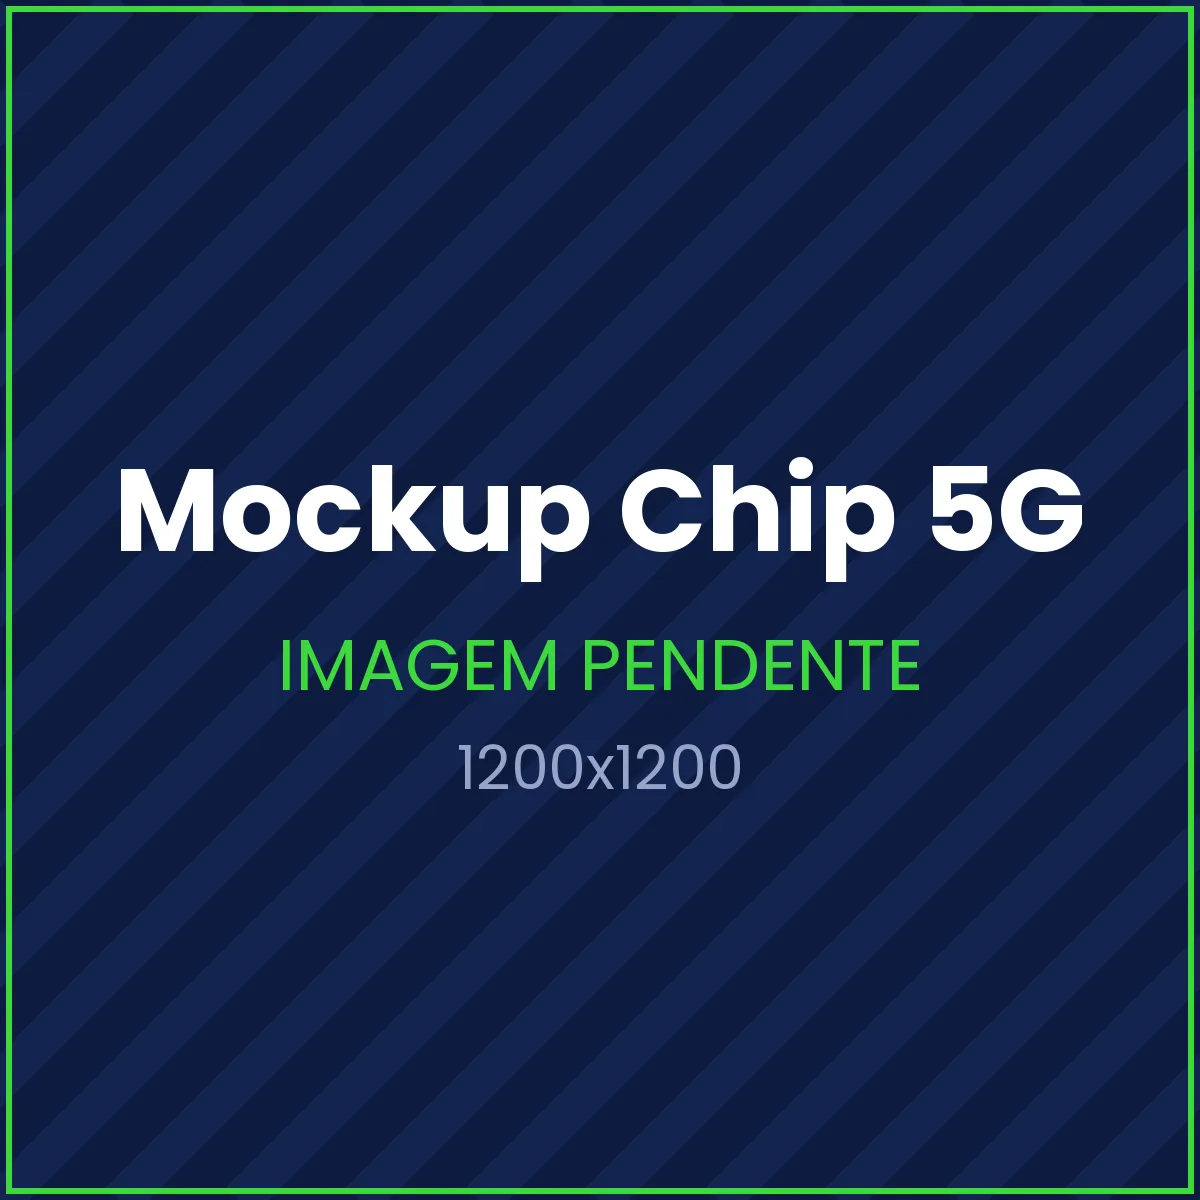
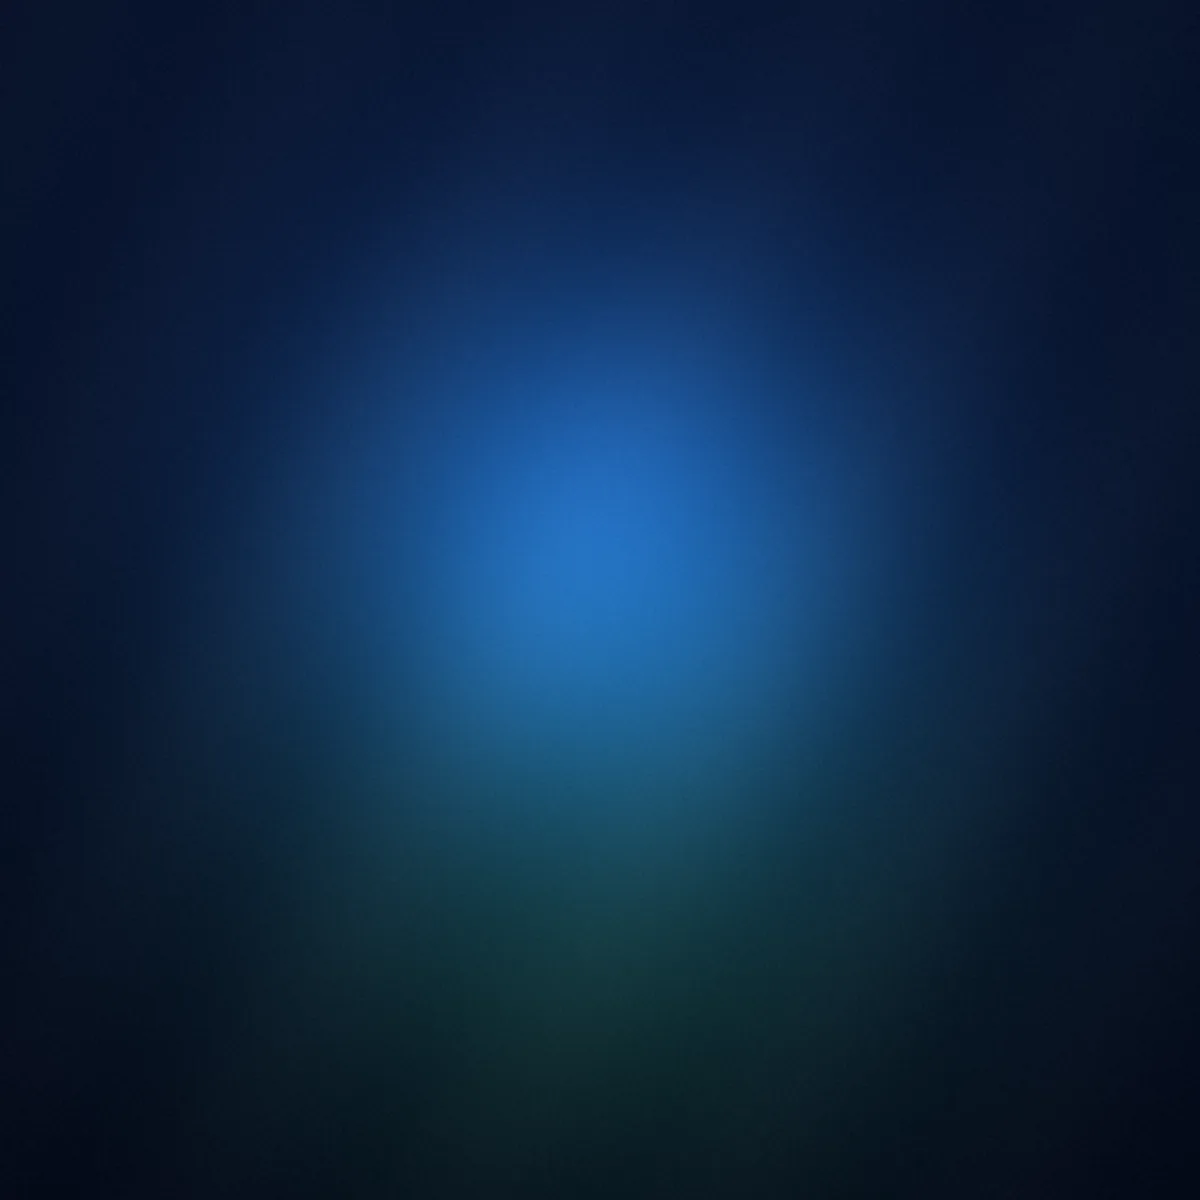
feat(imagens): atmosferas provisórias no lugar dos placeholders
As 16 imagens do briefing continuam pendentes: a geração pelo Gemini está
travada em cota zero até o faturamento do projeto ser habilitado. Enquanto
isso o site mostrava placeholders com "IMAGEM PENDENTE 1920x1080" escrito por
cima, inclusive atravessando o título do hero.

scripts/gerar-atmosferas.py gera fundos abstratos no lugar: navy com uma luz
principal, um respiro de verde longe dela, bandas diagonais sutis, vinheta e
granulação. Cada peça recebe o foco de luz no lado oposto à sua área calma,
que é onde o título entra, então o enquadramento do layout já está respeitado
e as fotos entram no mesmo arquivo sem mexer em código.

Isto não substitui a fotografia do briefing. É a diferença entre um site que
parece inacabado e um que parece intencional enquanto as fotos não chegam.

As 16 somam 377 KB, ante 743 KB dos placeholders. A og-image sai sem
granulação e quantizada em 256 cores: ela é rebuscada pelo WhatsApp a cada
compartilhamento, aparece pequena, e o ruído só custaria bytes. Passou de
694 KB para 46 KB.

Claude-Session: https://claude.ai/code/session_01J2gEpJMUg5LfLxyzTCNHBv

diff --git a/scripts/gerar-atmosferas.py b/scripts/gerar-atmosferas.py
@@ -1,0 +1,131 @@
+#!/usr/bin/env python3
+"""
+Atmosferas provisórias para os lugares onde ainda faltam as fotos.
+
+Isto não substitui a fotografia do briefing: são fundos abstratos, sem gente e
+sem cena, feitos para o site não ficar com placeholder escrito "IMAGEM
+PENDENTE" enquanto a geração das 16 imagens não roda. Cada um respeita a área
+calma que o layout daquela peça precisa, então quando as fotos chegarem elas
+entram no mesmo lugar sem mexer em uma linha de código.
+
+Uso:  python3 scripts/gerar-atmosferas.py
+"""
+
+from __future__ import annotations
+import math
+from pathlib import Path
+
+import numpy as np
+from PIL import Image, ImageFilter
+
+BASE = Path(__file__).resolve().parent.parent / "client" / "public" / "images"
+
+NAVY_FUNDO = np.array([7, 14, 34], dtype=np.float32)
+NAVY_CLARO = np.array([16, 38, 82], dtype=np.float32)
+AZUL_LUZ = np.array([26, 91, 166], dtype=np.float32)
+VERDE = np.array([61, 217, 61], dtype=np.float32)
+
+
+def atmosfera(
+    largura: int,
+    altura: int,
+    foco: tuple[float, float],
+    forca: float = 1.0,
+    verde: float = 0.10,
+    bandas: float = 0.5,
+    grao: float = 2.4,
+) -> Image.Image:
+    """
+    `foco` é onde a luz principal cai, em fração da imagem. É o oposto da área
+    calma: o texto do layout vai para o lado escuro.
+    """
+    ys, xs = np.mgrid[0:altura, 0:largura].astype(np.float32)
+    nx, ny = xs / largura, ys / altura
+
+    # Base: navy que clareia de baixo para cima, bem de leve.
+    t = (1.0 - ny) * 0.55
+    img = NAVY_FUNDO[None, None, :] * (1 - t[..., None]) + NAVY_CLARO[None, None, :] * t[..., None]
+
+    # Luz principal.
+    fx, fy = foco
+    proporcao = largura / altura
+    d = np.sqrt(((nx - fx) * proporcao) ** 2 + (ny - fy) ** 2) / proporcao
+    luz = np.exp(-(d**2) / (2 * 0.16**2)) * forca
+    img += AZUL_LUZ[None, None, :] * luz[..., None] * 0.85
+
+    # Um respiro de verde, a cor de ação da marca, longe do foco principal.
+    d2 = np.sqrt(((nx - (1.0 - fx)) * proporcao) ** 2 + (ny - (1.0 - fy * 0.6)) ** 2) / proporcao
+    img += VERDE[None, None, :] * np.exp(-(d2**2) / (2 * 0.22**2))[..., None] * verde
+
+    # Bandas diagonais muito sutis: tiram o aspecto de degradê de gerador.
+    if bandas:
+        onda = np.sin((nx * 9.0 + ny * 5.0) * math.pi) * 0.5 + 0.5
+        img += (onda[..., None] - 0.5) * 6.0 * bandas
+
+    # Vinheta.
+    dv = np.sqrt((nx - 0.5) ** 2 + (ny - 0.5) ** 2)
+    img *= (1.0 - np.clip(dv - 0.34, 0, None) * 0.85)[..., None]
+
+    # Granulação, para não ficar com o banding chapado do WebP em céu liso.
+    ruido = np.random.default_rng(7).normal(0, grao, (altura, largura, 1))
+    img = np.clip(img + ruido, 0, 255).astype(np.uint8)
+
+    return Image.fromarray(img, "RGB").filter(ImageFilter.GaussianBlur(0.6))
+
+
+# nome do arquivo, tamanho, foco da luz, força, verde, bandas, granulação
+#
+# A og-image vai sem granulação: ela é buscada de novo pelo WhatsApp a cada
+# compartilhamento, aparece pequena, e o ruído só custaria bytes num PNG.
+PECAS = [
+    ("bg/hero-person-smartphone.webp", (1920, 1080), (0.74, 0.42), 1.00, 0.12, 0.6, 2.4),
+    ("marca/og-image.png",             (1200, 630),  (0.76, 0.46), 1.05, 0.14, 0.4, 0.0),
+    ("bg/carousel-velocidade.webp",    (1920, 1080), (0.72, 0.38), 0.95, 0.10, 0.6, 2.4),
+    ("bg/carousel-aplicativos.webp",   (1920, 1080), (0.78, 0.52), 0.90, 0.13, 0.5, 2.4),
+    ("bg/carousel-5g.webp",            (1920, 1080), (0.70, 0.34), 1.00, 0.11, 0.7, 2.4),
+    ("bg/carousel-empresarial.webp",   (1920, 1080), (0.76, 0.44), 0.85, 0.08, 0.5, 2.4),
+    ("bg/maistv-hero-bg.jpg",          (1920, 1080), (0.68, 0.50), 0.80, 0.07, 0.4, 2.4),
+    # Estes dois ficam atrás de conteúdo: quase lisos, de propósito.
+    ("bg/maistv-channels-bg.webp",     (1920, 1080), (0.72, 0.14), 0.45, 0.04, 0.2, 2.4),
+    ("bg/mais-aplicativos-bg.webp",    (1920, 1080), (0.50, 0.30), 0.40, 0.06, 0.2, 2.4),
+    ("bg/maistv-hero-netflix.webp",    (1920, 1080), (0.74, 0.62), 0.85, 0.06, 0.4, 2.4),
+    ("bg/mais-velocidade-hero.webp",   (1920, 1080), (0.72, 0.46), 0.90, 0.12, 0.6, 2.4),
+    ("bg/young-urban-5g.webp",         (1920, 1080), (0.75, 0.40), 0.95, 0.14, 0.6, 2.4),
+    ("bg/chip-5g-mockup.webp",         (1200, 1200), (0.50, 0.46), 1.00, 0.15, 0.5, 2.4),
+    # office-modern tem a área calma à direita: a luz vai para a esquerda.
+    ("bg/office-modern.webp",          (1920, 1080), (0.28, 0.44), 0.90, 0.09, 0.5, 2.4),
+    ("bg/vagas-hero.webp",             (1920, 1080), (0.74, 0.34), 1.00, 0.13, 0.6, 2.4),
+    ("bg/vagas-benefits.webp",         (1920, 1080), (0.72, 0.50), 0.85, 0.11, 0.5, 2.4),
+]
+
+
+def salvar(img: Image.Image, destino: Path) -> int:
+    destino.parent.mkdir(parents=True, exist_ok=True)
+    ext = destino.suffix.lower()
+    if ext == ".webp":
+        img.save(destino, "WEBP", quality=82, method=6)
+    elif ext in (".jpg", ".jpeg"):
+        img.save(destino, "JPEG", quality=86, optimize=True, progressive=True)
+    else:
+        # PNG de degradê com granulação passa de 600 KB sem quantizar, e a
+        # og-image é buscada pelo WhatsApp a cada compartilhamento. 256 cores
+        # adaptativas resolvem sem banding visível num fundo desta escala.
+        img.quantize(colors=256, method=Image.MEDIANCUT, dither=Image.FLOYDSTEINBERG).save(
+            destino, "PNG", optimize=True
+        )
+    return destino.stat().st_size
+
+
+def main() -> None:
+    total = 0
+    for nome, tamanho, foco, forca, verde, bandas, grao in PECAS:
+        destino = BASE / nome
+        img = atmosfera(tamanho[0], tamanho[1], foco, forca, verde, bandas, grao)
+        peso = salvar(img, destino)
+        total += peso
+        print(f"  {nome:38s} {tamanho[0]}x{tamanho[1]:<5d} {peso/1024:6.1f} KB")
+    print(f"\n{len(PECAS)} atmosferas, {total/1024:.0f} KB no total")
+
+
+if __name__ == "__main__":
+    main()
